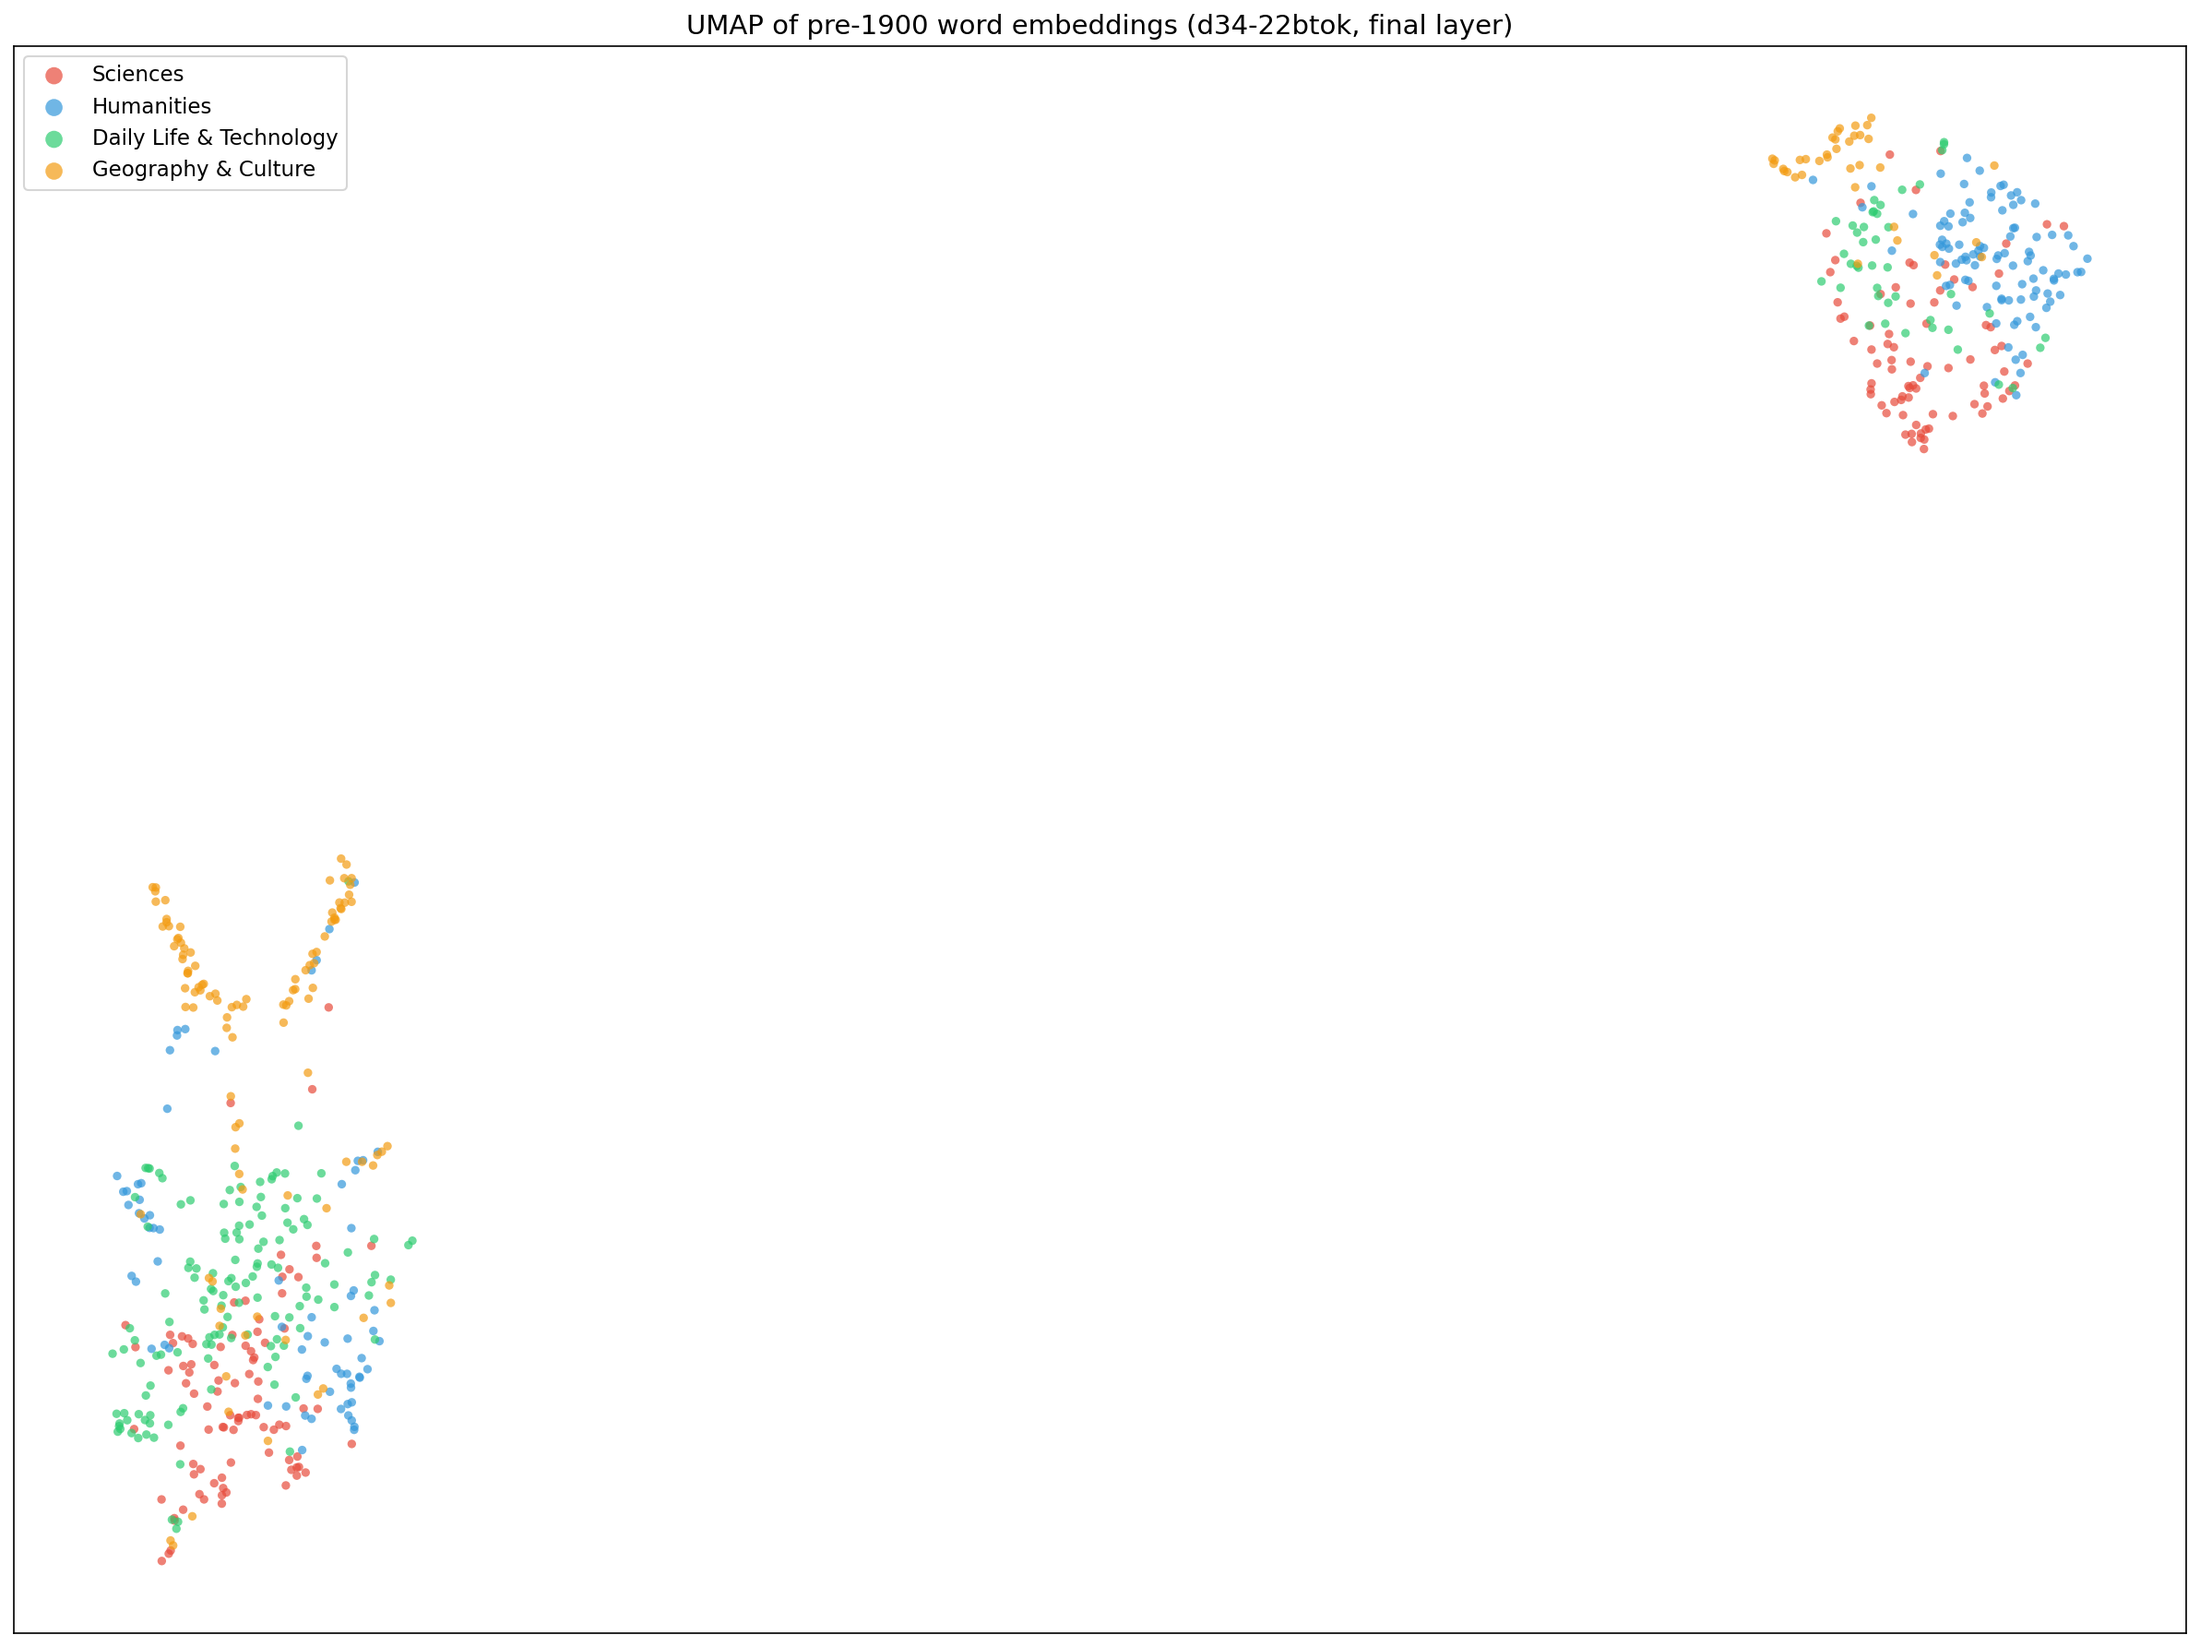
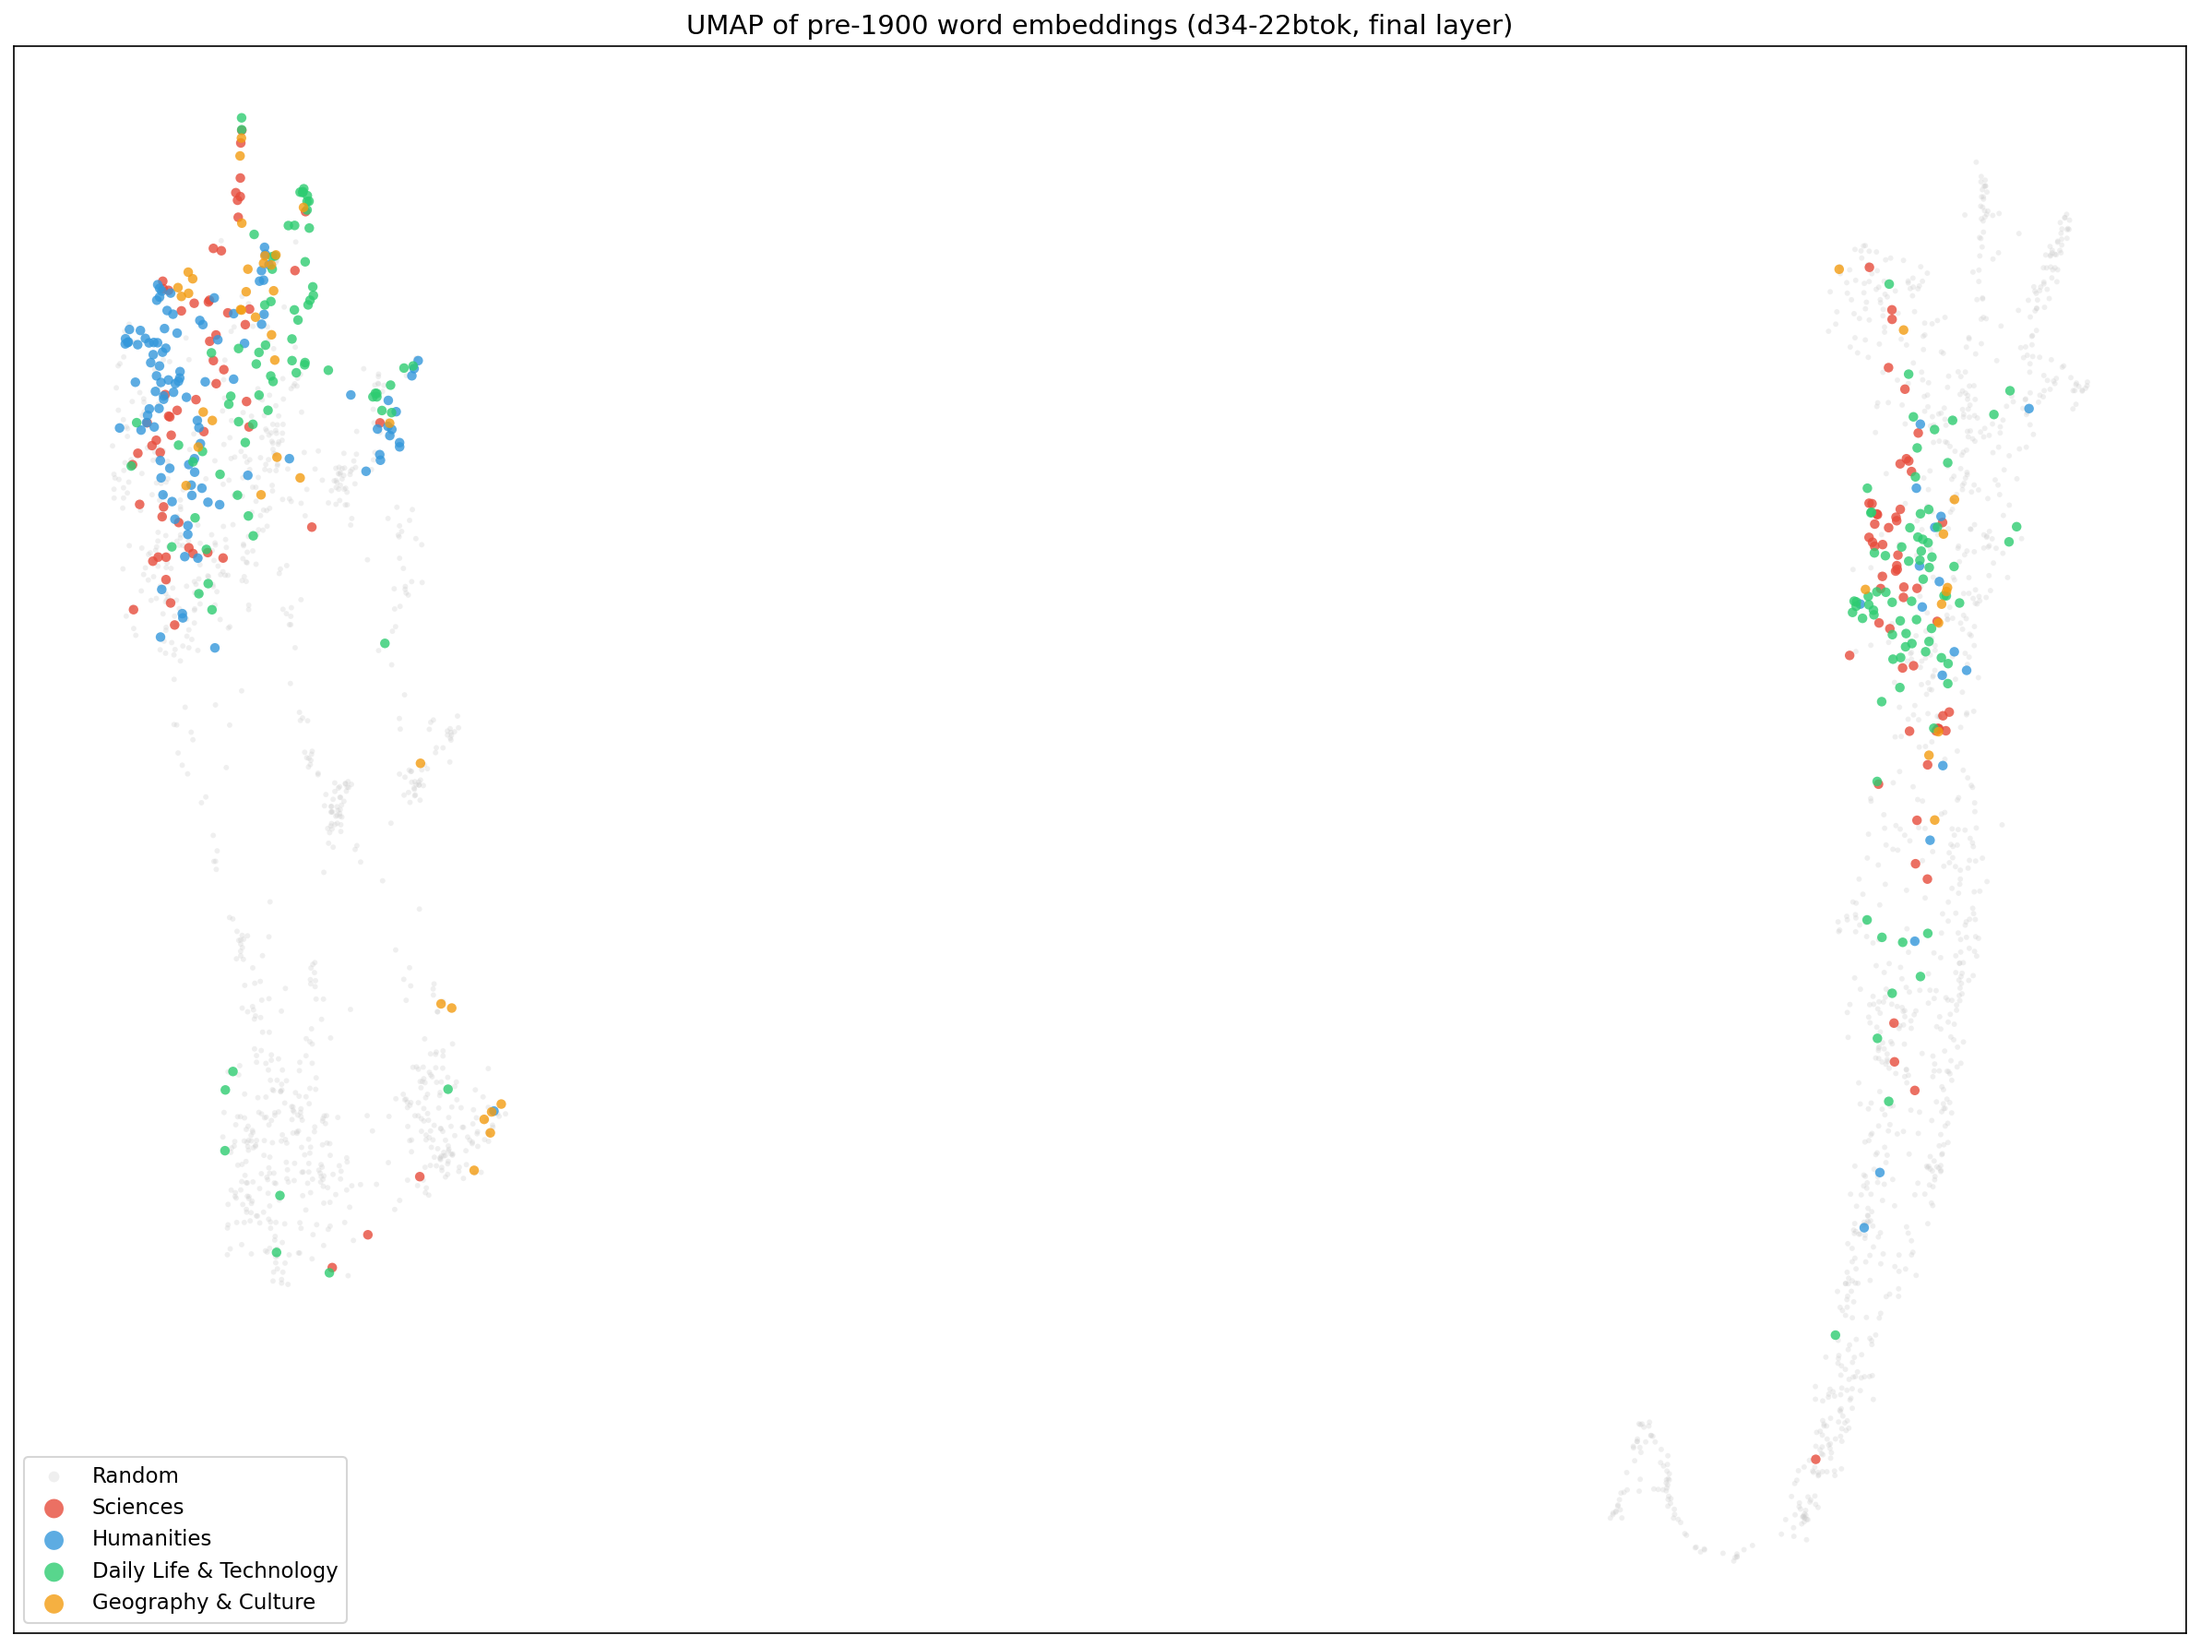
Update word UMAP with 2000 random vocab words as background
Lowercases all words, filters to single-token only, and adds ~2000
random vocabulary words (gray) to show the full representation space.
Confirms the two-cluster structure is a genuine feature of the model.

diff --git a/dev/run_umap_words.py b/dev/run_umap_words.py
@@ -54,9 +54,9 @@ hook = list(model.transformer.h)[-1].register_forward_hook(hook_fn)
 
 @torch.no_grad()
 def get_word_embedding(word):
-    """Get final-layer last-token hidden state for a word."""
+    """Get final-layer last-token hidden state for a word (lowercased)."""
     bos = tokenizer.get_bos_token_id()
-    tokens = tokenizer.encode(f" {word}", prepend=bos)
+    tokens = tokenizer.encode(f" {word.lower()}", prepend=bos)
     ids = torch.tensor([tokens], dtype=torch.long, device=device)
     _ = model(ids)
     return final_hidden['h'][0, -1, :].float().cpu().numpy()
@@ -214,18 +214,71 @@ for cat, words in WORDS.items():
 total = sum(len(v) for v in WORDS.values())
 print(f"  Total: {total} words")
 
-# ---- Collect embeddings ----
+# ---- Collect a large set of random single-token words from the vocabulary ----
 print("\n=== Collecting word embeddings ===")
+
+# First, collect all labeled words (single-token only)
 all_words, all_categories = [], []
 all_vecs = []
+labeled_token_ids = set()
 
 for cat, words in WORDS.items():
+    cat_count = 0
     for w in words:
+        toks = tokenizer.encode(f" {w.lower()}")
+        if len(toks) != 1:
+            continue
         vec = get_word_embedding(w)
-        all_words.append(w)
+        all_words.append(w.lower())
         all_categories.append(cat)
         all_vecs.append(vec)
-    print(f"  {cat}: done ({len(words)} words)")
+        labeled_token_ids.add(toks[0])
+        cat_count += 1
+    print(f"  {cat}: {cat_count} labeled words")
+
+print(f"  Total labeled: {len(all_words)}")
+
+# Now sample ~2000 random tokens from the vocabulary and embed them
+# Filter to tokens that decode to clean single English-looking words
+import random
+random.seed(42)
+vocab_size = tokenizer.get_vocab_size()
+random_count = 0
+TARGET_RANDOM = 2000
+
+candidate_ids = list(range(vocab_size))
+random.shuffle(candidate_ids)
+
+for tid in candidate_ids:
+    if random_count >= TARGET_RANDOM:
+        break
+    if tid in labeled_token_ids:
+        continue
+    decoded = tokenizer.decode([tid])
+    # Filter: must start with space, be 3+ chars after space, only ascii letters
+    if not decoded.startswith(' '):
+        continue
+    word = decoded[1:]  # strip leading space
+    if len(word) < 3 or not word.isalpha() or not word.isascii():
+        continue
+    # Skip very common function words
+    if word.lower() in {'the', 'and', 'for', 'that', 'this', 'with', 'from', 'are', 'was',
+                         'were', 'been', 'have', 'has', 'had', 'not', 'but', 'they', 'she',
+                         'his', 'her', 'its', 'our', 'you', 'who', 'which', 'will', 'would',
+                         'could', 'should', 'may', 'might', 'can', 'shall', 'did', 'does'}:
+        continue
+    bos = tokenizer.get_bos_token_id()
+    ids = torch.tensor([[bos, tid]], dtype=torch.long, device=device)
+    with torch.no_grad():
+        _ = model(ids)
+    vec = final_hidden['h'][0, -1, :].float().cpu().numpy()
+    all_words.append(word.lower())
+    all_categories.append("Random")
+    all_vecs.append(vec)
+    random_count += 1
+
+print(f"  Random vocab words: {random_count}")
+print(f"  Grand total: {len(all_words)}")
 
 X = np.stack(all_vecs)
 print(f"Embedding matrix: {X.shape}")
@@ -246,18 +299,25 @@ print(f"PCA explained variance: {pca.explained_variance_ratio_[0]:.3f}, {pca.exp
 
 # ---- Colors ----
 cat_colors = {
+    "Random": "#cccccc",
     "Sciences": "#e74c3c",
     "Humanities": "#3498db",
     "Daily Life & Technology": "#2ecc71",
     "Geography & Culture": "#f39c12",
 }
 
+# ---- Plot helper: draw Random first (background), then labeled on top ----
+draw_order = ["Random", "Sciences", "Humanities", "Daily Life & Technology", "Geography & Culture"]
+
 # ---- Plot 1: UMAP (large, clean) ----
 fig, ax = plt.subplots(figsize=(16, 12))
-for cat in cat_colors:
+for cat in draw_order:
     idxs = [i for i, c in enumerate(all_categories) if c == cat]
+    if not idxs: continue
+    s = 8 if cat == "Random" else 25
+    a = 0.3 if cat == "Random" else 0.8
     ax.scatter(umap_2d[idxs, 0], umap_2d[idxs, 1],
-              c=cat_colors[cat], s=20, alpha=0.7, edgecolors='none', label=cat)
+              c=cat_colors[cat], s=s, alpha=a, edgecolors='none', label=cat)
 ax.legend(fontsize=11, markerscale=2, loc='best')
 ax.set_title("UMAP of pre-1900 word embeddings (d34-22btok, final layer)", fontsize=14)
 ax.set_xticks([]); ax.set_yticks([])
@@ -266,17 +326,21 @@ fig.savefig(os.path.join(FIGDIR, '11_umap_words.png'), bbox_inches='tight')
 print("Saved 11_umap_words.png")
 plt.close()
 
-# ---- Plot 2: UMAP with labels on a subset ----
+# ---- Plot 2: UMAP with labels on labeled words ----
 fig, ax = plt.subplots(figsize=(20, 15))
-for cat in cat_colors:
+for cat in draw_order:
     idxs = [i for i, c in enumerate(all_categories) if c == cat]
+    if not idxs: continue
+    s = 8 if cat == "Random" else 25
+    a = 0.2 if cat == "Random" else 0.7
     ax.scatter(umap_2d[idxs, 0], umap_2d[idxs, 1],
-              c=cat_colors[cat], s=25, alpha=0.6, edgecolors='none', label=cat)
-# Label every 3rd point to avoid clutter
-for i in range(0, len(all_words), 3):
-    ax.annotate(all_words[i], (umap_2d[i, 0], umap_2d[i, 1]),
-               fontsize=4, alpha=0.6, ha='center', va='bottom',
-               xytext=(0, 2), textcoords='offset points')
+              c=cat_colors[cat], s=s, alpha=a, edgecolors='none', label=cat)
+# Label only the categorized (non-random) words
+for i in range(len(all_words)):
+    if all_categories[i] != "Random":
+        ax.annotate(all_words[i], (umap_2d[i, 0], umap_2d[i, 1]),
+                   fontsize=4.5, alpha=0.65, ha='center', va='bottom',
+                   xytext=(0, 2), textcoords='offset points')
 ax.legend(fontsize=11, markerscale=2, loc='best')
 ax.set_title("UMAP of pre-1900 word embeddings (with labels)", fontsize=14)
 ax.set_xticks([]); ax.set_yticks([])
@@ -287,10 +351,13 @@ plt.close()
 
 # ---- Plot 3: PCA ----
 fig, ax = plt.subplots(figsize=(16, 12))
-for cat in cat_colors:
+for cat in draw_order:
     idxs = [i for i, c in enumerate(all_categories) if c == cat]
+    if not idxs: continue
+    s = 8 if cat == "Random" else 25
+    a = 0.3 if cat == "Random" else 0.8
     ax.scatter(pca_2d[idxs, 0], pca_2d[idxs, 1],
-              c=cat_colors[cat], s=20, alpha=0.7, edgecolors='none', label=cat)
+              c=cat_colors[cat], s=s, alpha=a, edgecolors='none', label=cat)
 ax.legend(fontsize=11, markerscale=2, loc='best')
 ax.set_title("PCA of pre-1900 word embeddings (d34-22btok, final layer)", fontsize=14)
 ax.set_xticks([]); ax.set_yticks([])
